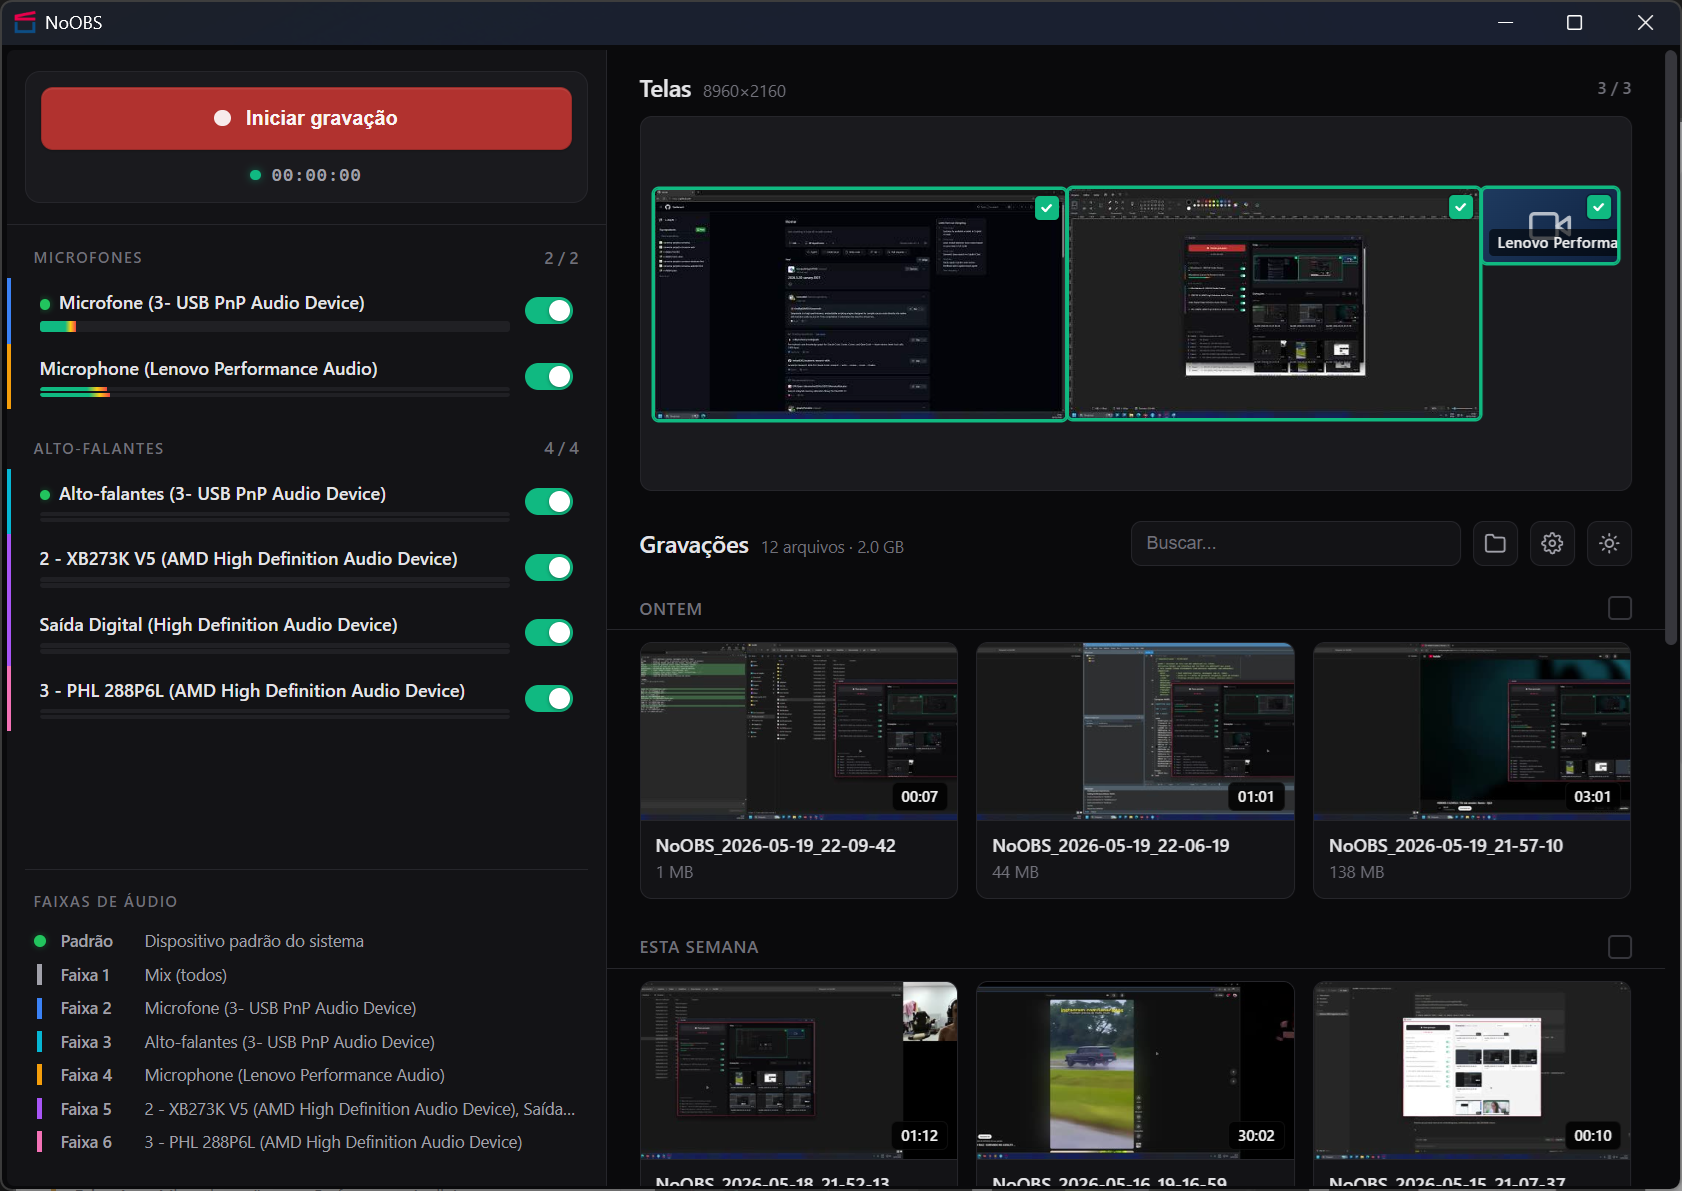
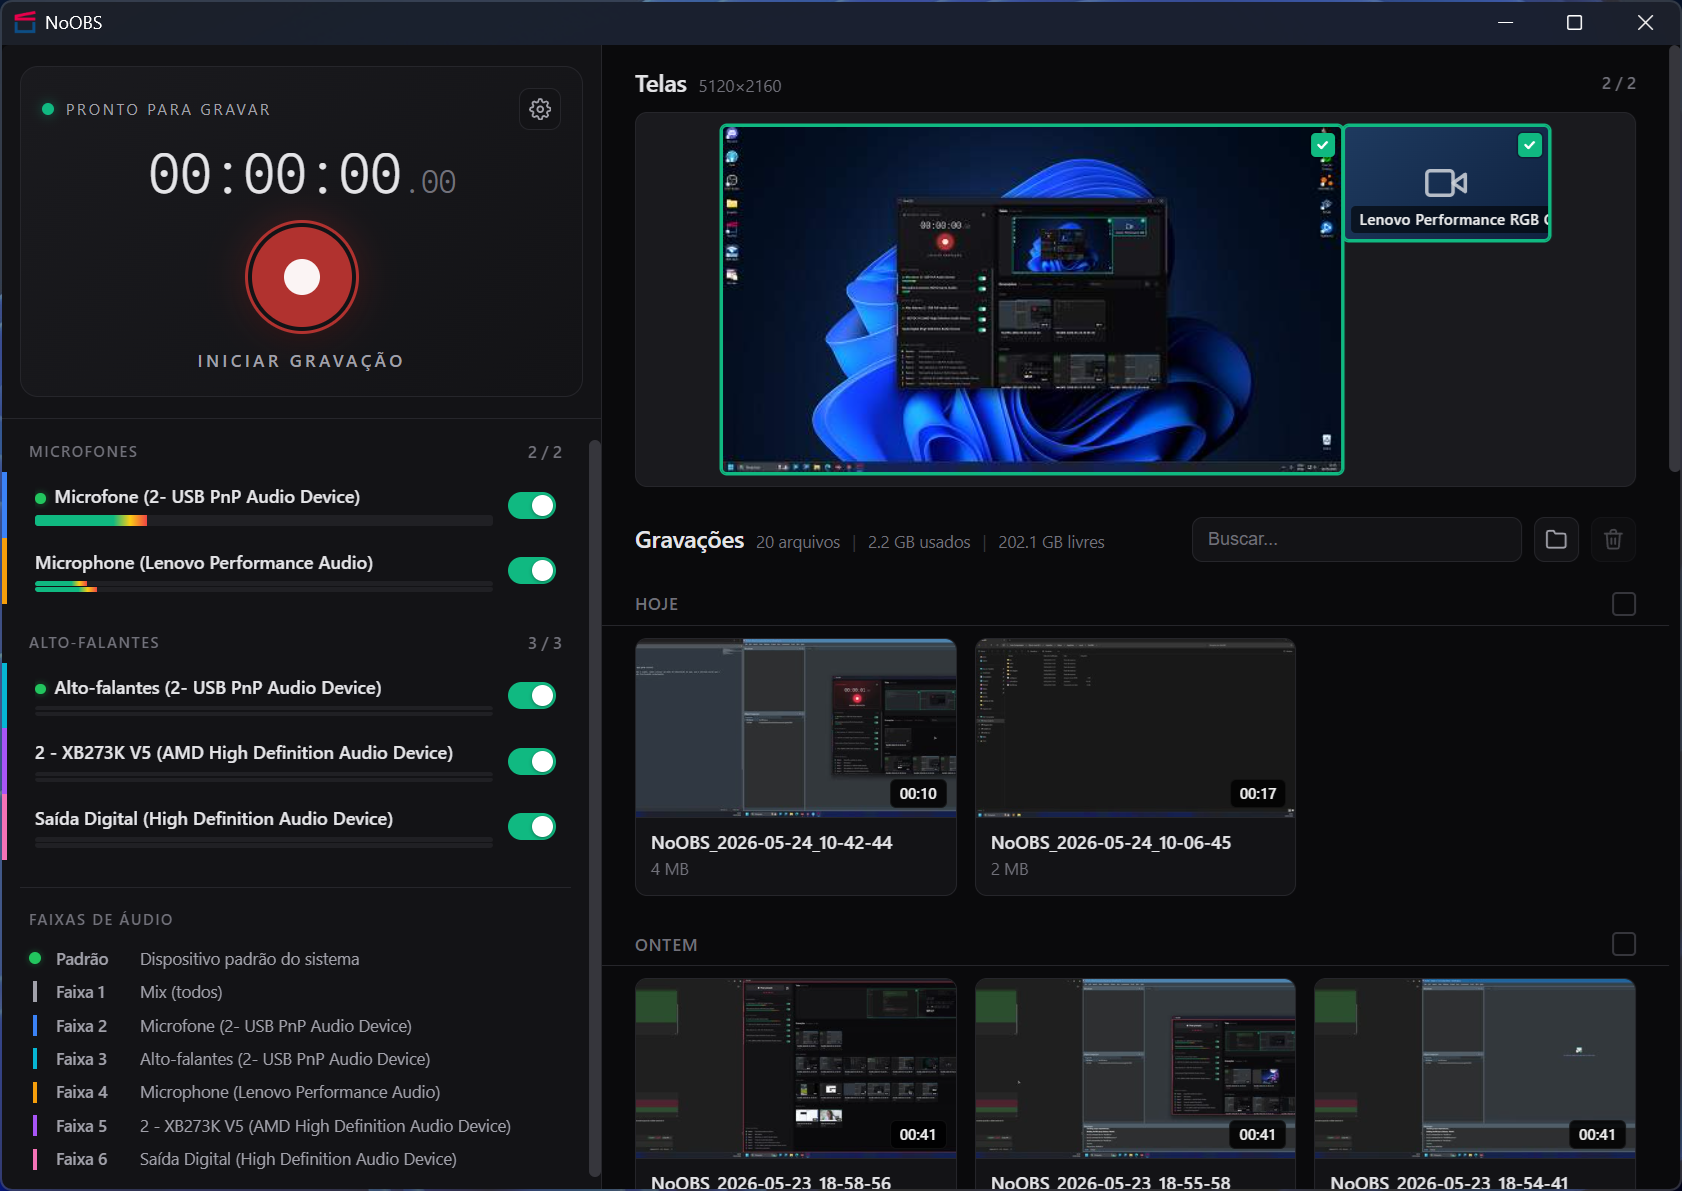
Correções do readme

diff --git a/README.md b/README.md
@@ -10,6 +10,10 @@ pensada pra ser fácil de usar que aproveita toda a potência do OBS
 — você não precisa instalar nem configurar o OBS, tudo já vem pronto.
 Só abrir e gravar.
 
+> **Premium e leve.** Modo hibernação que cai pra ~5 MB de RAM
+> enquanto não está gravando. Tema acompanha o Windows na primeira
+> execução. UI focada só em gravar.
+
 ---
 
 ## Recursos
@@ -21,26 +25,32 @@ Só abrir e gravar.
 | Webcam | Detecta suas webcams automaticamente e permite adicionar na gravação |
 | Áudio separado por dispositivo | Cada microfone e alto-falante em faixas independentes, facilitando edição depois |
 | Gravação só de áudio | Se nenhum monitor ou webcam estiver selecionado, o áudio ainda é gravado |
-| Detecção em tempo real | Reconhece quando você conecta ou desconecta microfones, alto-falantes, monitores e webcams |
+| Detecção em tempo real | Reconhece quando você conecta ou desconecta microfones, alto-falantes, monitores e webcams — inclusive troca de dispositivo padrão no Painel de Som |
 | Codec automático | Detecta sua placa de vídeo e usa o melhor encoder disponível (AV1 → HEVC → H.264 → x264) |
+| Qualidade ajustável | Slider de 5 níveis pra balancear tamanho de arquivo e qualidade visual |
 | Faixa "Mix" + isoladas | Faixa 1 é o mix de tudo; faixas 2–6 individuais por dispositivo (até 6 no total) |
 | Dispositivo padrão preservado | O microfone e alto-falante padrão do Windows sempre ficam em faixas individuais quando possível |
 
 ### Interface
 | Recurso | Descrição |
 |---|---|
-| Tema claro/escuro | Alterna entre os dois temas |
+| Tema claro/escuro | Segue o tema do sistema na primeira execução; alternável depois nas Configurações |
+| Botão de gravação cinematográfico | Botão circular com halo pulsante, timer com centésimos de segundo e onda radial vermelha ao iniciar |
 | Preview ao vivo | Miniaturas dos monitores e webcams atualizando a 2 FPS, identifica facilmente o que será gravado |
 | Legenda de faixas de áudio | Mostra qual dispositivo está em qual faixa do vídeo, com cores distintas |
 | Indicador de dispositivo padrão | Bolinha verde nos dispositivos definidos como padrão no Windows |
-| Notificações nativas | Avisa no Windows quando inicia/para gravação (se o app estiver minimizado) |
+| Espaço em disco visível | Painel de gravações mostra quanto disco está usado e quanto sobra — alerta laranja abaixo de 5 GB |
+| Notificações detalhadas | Avisa o que mudou (dispositivo adicionado, removido, padrão trocado) com o nome do dispositivo |
+| Tela "Sobre" via F1 | Informações do projeto e link do repositório com um atalho |
 
 ### Atalhos e automação
 | Recurso | Descrição |
 |---|---|
 | Atalho global configurável | Padrão: tecla `Pause`. Configurável com até 4 teclas (Ctrl+Shift+Alt+G, etc.) |
+| Indicador no LED Scroll Lock | Opção pra piscar o LED de Scroll Lock do teclado enquanto grava — útil quando o app está na bandeja |
 | Bandeja do sistema | Ícone próximo ao relógio com menu para iniciar/parar gravação, abrir e fechar |
 | Iniciar com Windows | Abre minimizado na bandeja ao logar, gravação fica pronta no atalho global |
+| Modo hibernação | Após 1 min na bandeja (ou cold-start via autostart), o app libera todos os recursos e fica em ~5 MB de RAM, só com tray icon + hotkey. Volta automaticamente ao normal quando precisar |
 | Minimizar ao gravar | Opção pra esconder a janela automaticamente quando a gravação começa |
 | Fechamento inteligente | Botão [X] minimiza pra bandeja se estiver gravando ou se "iniciar com Windows" estiver ativo |
 
@@ -51,7 +61,7 @@ Só abrir e gravar.
 | Volume por faixa | Ajuste o volume de cada microfone e alto-falante separadamente ao assistir |
 | Informações do vídeo | Detalhes técnicos da gravação: resolução, duração, codec, bitrate, faixas de áudio |
 | Lista com miniaturas | Cards com thumbnail, duração e tamanho de cada gravação |
-| Busca e gerenciamento | Filtrar, renomear, excluir em lote |
+| Busca e gerenciamento | Filtrar, renomear, excluir em lote (botão de exclusão na header fica vermelho quando há seleção) |
 | Compatível com editores | MKV padrão com metadata correta de nome de faixa — abre direto no DaVinci, Premiere, etc. |
 
 ---
@@ -60,9 +70,12 @@ Só abrir e gravar.
 
 Baixe a versão mais recente em [Releases](https://github.com/e-delphi/NoOBS/releases).
 
-O instalador oferece a opção **Iniciar com o Windows** durante a
-instalação — marcado por padrão, faz o NoOBS subir minimizado na
-bandeja ao logar.
+O instalador inclui opções (desmarcadas por padrão):
+
+- **Iniciar com o Windows** — sobe o NoOBS automaticamente no logon. Combinado com a opção "Minimizar para bandeja", o app inicia em modo hibernação consumindo só ~5 MB.
+- **Atalho na área de trabalho** — cria um atalho do NoOBS no Desktop.
+
+Na **primeira execução** após instalação, o app abre direto na tela de Configurações pra você ajustar pasta de gravação, atalho e demais opções antes da primeira gravação.
 
 ---
 